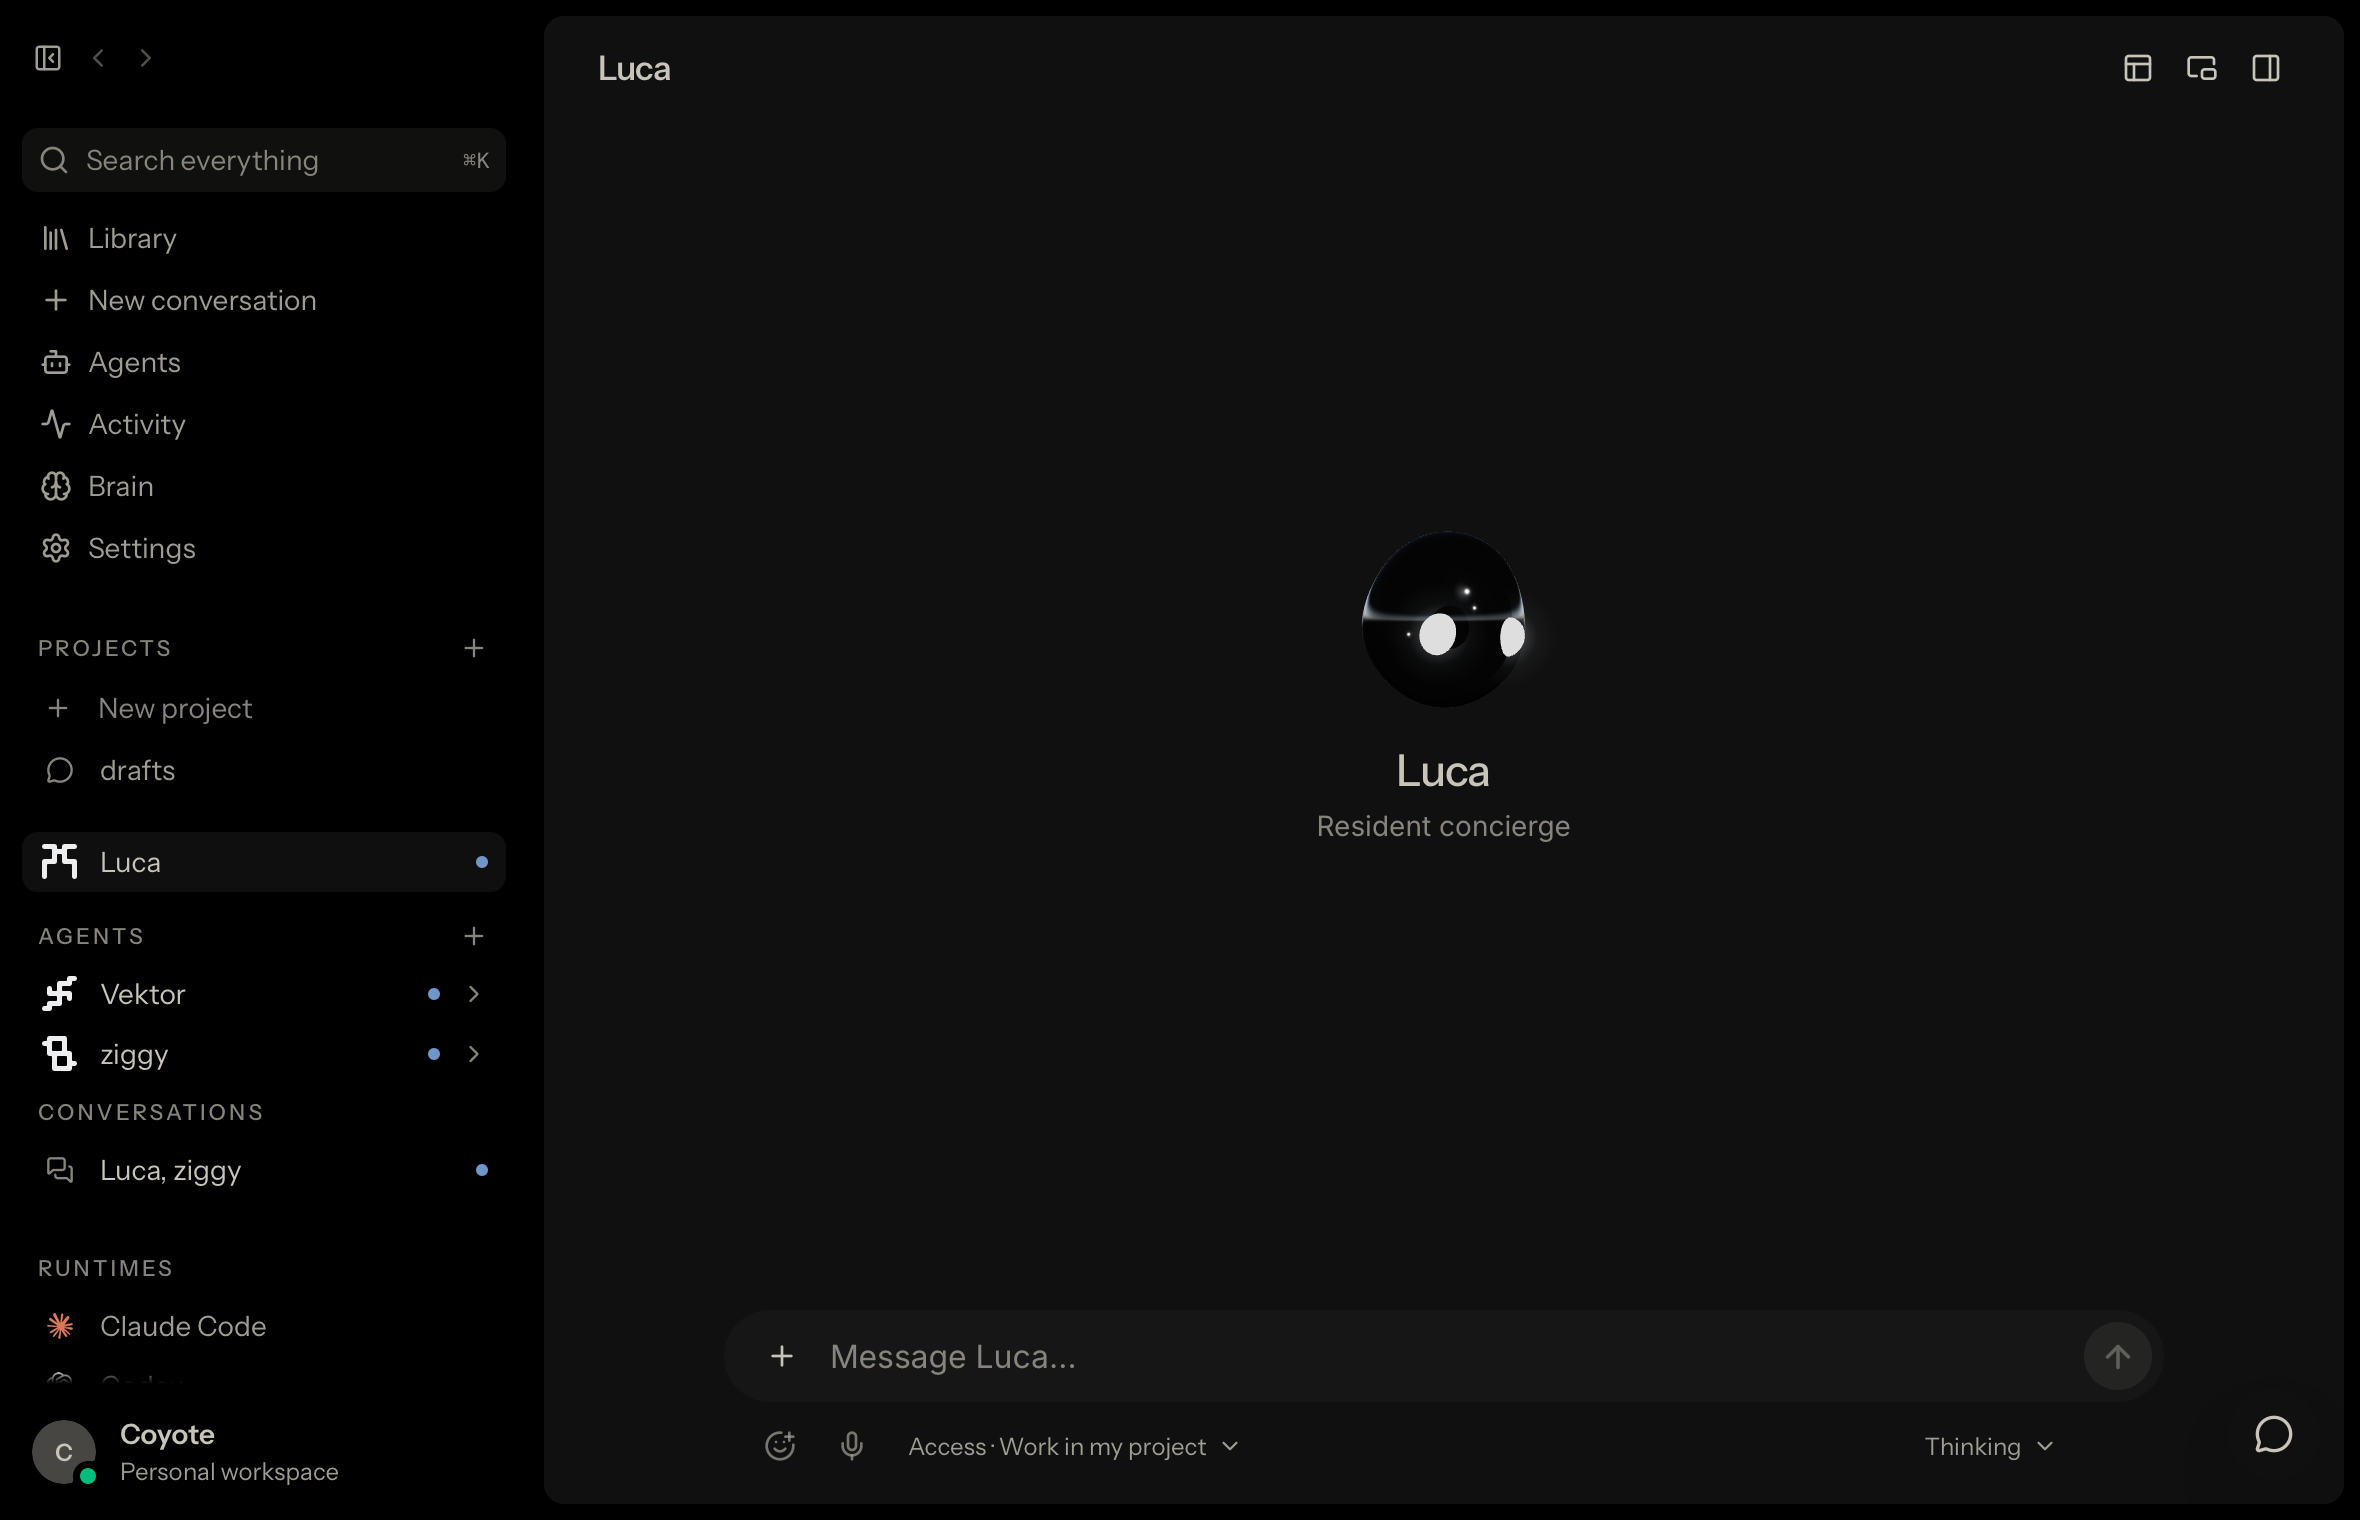
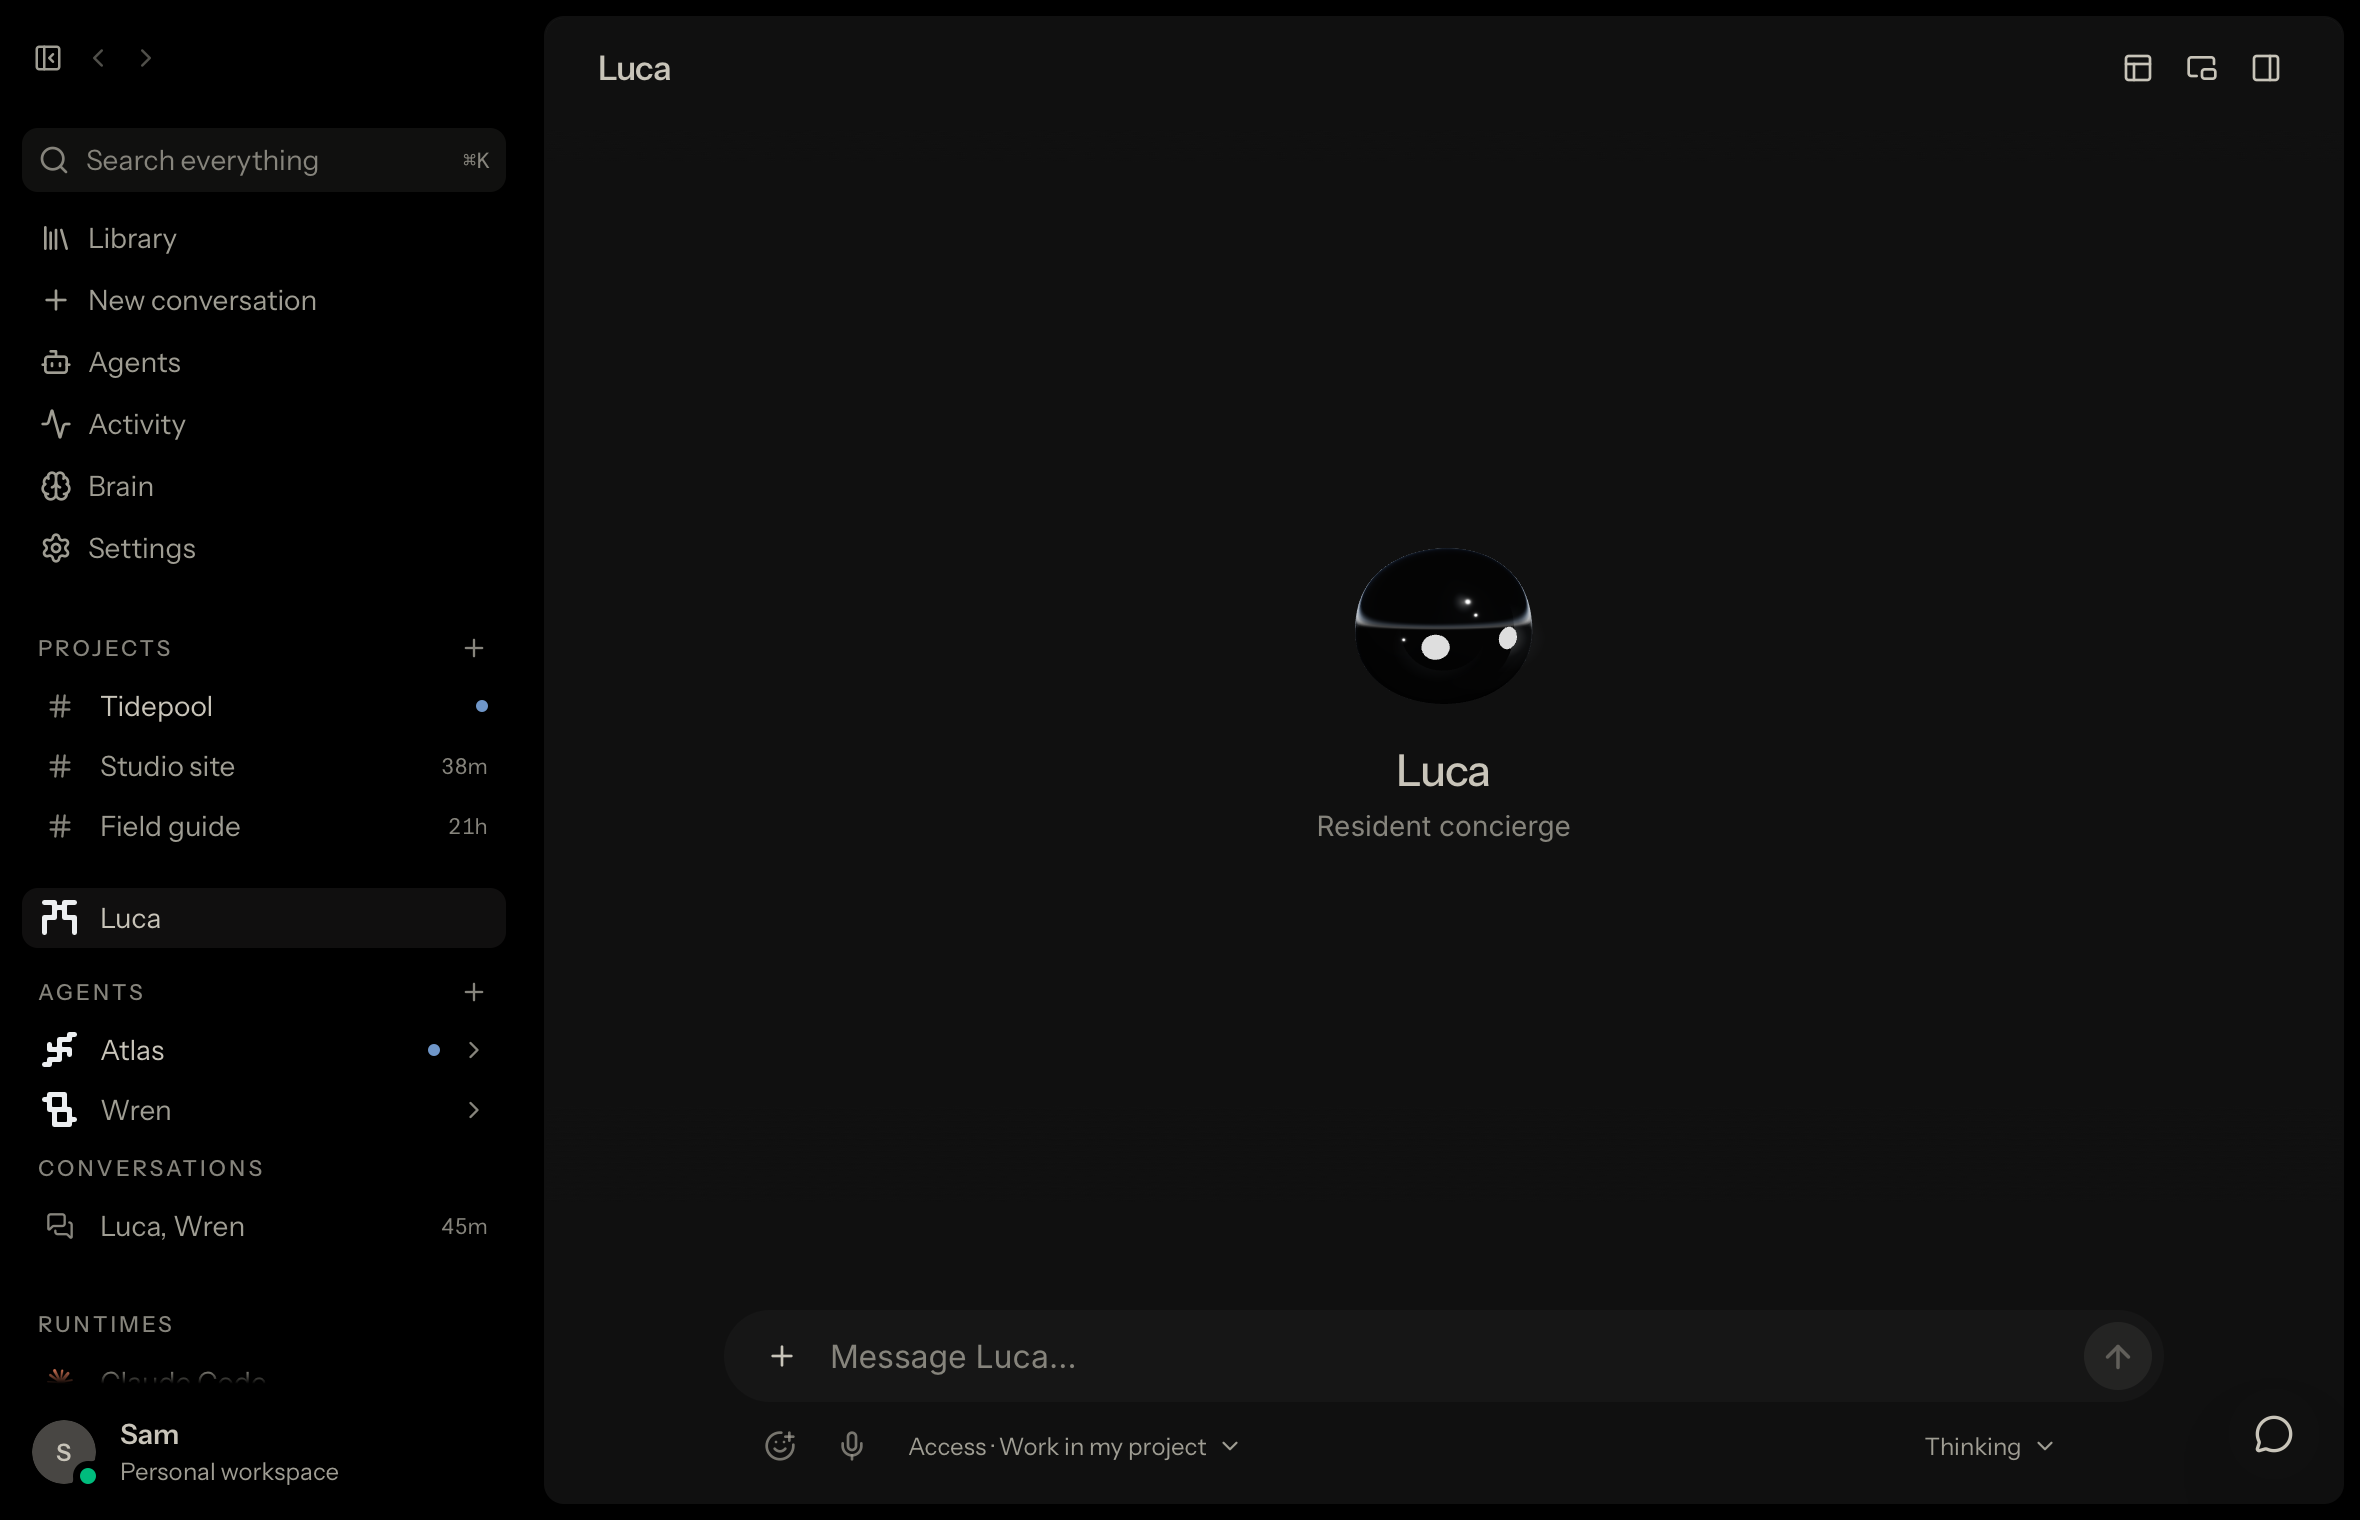
shell lab: ?scene=ad, a workspace fit for public screenshots
Same scene with a neutral owner (Sam), agents on Codex and Claude Code
(Atlas, Wren), three projects (Tidepool, Studio site, Field guide) and named
sessions filed under them. Everything is marked read except the newest
session. The beta.14 announcement frames are recaptured from it.

diff --git a/desktop/src/testing/labEntry.tsx b/desktop/src/testing/labEntry.tsx
@@ -45,6 +45,9 @@ import {
   CONTROL_LAB_KEY,
 } from "@/testing/companionControlLab";
 import {
+  LAB_AD_PROJECTS,
+  LAB_AD_SCENE,
+  LAB_AD_SESSIONS,
   LAB_DM_ID,
   LAB_DM_TRANSCRIPT,
   LAB_DM_WITH,
@@ -57,6 +60,7 @@ import {
   type LabRoomKey,
   type LabTurn,
 } from "@/testing/labScene";
+import { roomProjectStorageKey } from "@/features/channels/lib/roomProjects";
 
 import "@fontsource-variable/inter/wght.css";
 import "@fontsource-variable/instrument-sans";
@@ -227,6 +231,83 @@ async function clearStockChannels() {
   }
 }
 
+/** The ad scene renames two residents; their names inside the transcripts
+ *  follow, so an opened room never contradicts its own rail. */
+function sceneText(text: string) {
+  return LAB_AD_SCENE
+    ? text.replace(/\bziggy\b/g, "Wren").replace(/\bVektor\b/g, "Atlas")
+    : text;
+}
+
+/** Named sessions with Atlas and Wren, filed under the ad scene's projects. */
+async function buildAdSessions() {
+  const nowSeconds = Math.floor(Date.now() / 1000);
+  for (const session of LAB_AD_SESSIONS) {
+    const resident = LAB_RESIDENTS[session.resident].pubkey;
+    await withPinnedUuid(session.id, () =>
+      invokeMock("create_channel", {
+        channelType: "stream",
+        description: "",
+        name: session.name,
+        visibility: "open",
+      }),
+    );
+    await invokeMock("add_channel_members", {
+      channelId: session.id,
+      pubkeys: [resident],
+      role: "bot",
+    });
+    window.__BUZZ_E2E_EMIT_MOCK_MESSAGE__?.({
+      channelId: session.id,
+      content: session.text,
+      createdAt: nowSeconds - session.minutesAgo * 60,
+      pubkey: resident,
+    });
+  }
+  window.localStorage.setItem(
+    roomProjectStorageKey(LAB_OWNER.pubkey, RELAY_URL),
+    JSON.stringify({
+      version: 1,
+      projects: LAB_AD_PROJECTS.map((project) => ({
+        ...project,
+        workingContextStatus: "attached",
+      })),
+      assignments: Object.fromEntries(
+        LAB_AD_SESSIONS.map((session) => [session.id, session.project]),
+      ),
+    }),
+  );
+  window.dispatchEvent(new Event("luca:room-projects-changed"));
+}
+
+/**
+ * A real workspace is mostly read. Everything the ad scene shows is marked
+ * read except the newest session, which keeps its one dot of news. Sent
+ * twice because the read-state manager may still be subscribing the first
+ * time.
+ */
+function markAdSceneRead() {
+  const newest = [...LAB_AD_SESSIONS].sort(
+    (a, b) => a.minutesAgo - b.minutesAgo,
+  )[0];
+  const send = () => {
+    const readAt = Math.floor(Date.now() / 1000) + 1;
+    const ids = [
+      LAB_DM_ID,
+      ...Object.values(LAB_ROOMS).map((room) => room.id),
+      ...LAB_AD_SESSIONS.map((session) => session.id),
+    ].filter((id) => id !== newest?.id);
+    window.__BUZZ_E2E_EMIT_MOCK_READ_STATE__?.({
+      clientId: "shell-lab-ad-scene",
+      contexts: Object.fromEntries(ids.map((id) => [id, readAt])),
+      createdAt: readAt,
+      slotId: "shell-lab-ad-scene",
+    });
+  };
+  send();
+  window.setTimeout(send, 1500);
+}
+
 function sayAll(channelId: string, turns: LabTurn[]) {
   const nowSeconds = Math.floor(Date.now() / 1000);
   for (const turn of [...turns].sort((a, b) => b.minutesAgo - a.minutesAgo)) {
@@ -250,7 +331,7 @@ function sayAll(channelId: string, turns: LabTurn[]) {
     }
     window.__BUZZ_E2E_EMIT_MOCK_MESSAGE__?.({
       channelId,
-      content: turn.text,
+      content: sceneText(turn.text),
       createdAt: nowSeconds - turn.minutesAgo * 60,
       extraTags: turn.exchangeTurn
         ? [["exchange", exchange.exchangeId, String(turn.exchangeTurn)]]
@@ -264,6 +345,9 @@ async function buildScene() {
   await clearStockChannels();
 
   for (const key of ROOM_ORDER) {
+    // The empty composer stage and the reading-notes room are design
+    // fixtures; the ad scene gives Atlas named sessions instead.
+    if (LAB_AD_SCENE && (key === "drafts" || key === "fieldNotes")) continue;
     const room = LAB_ROOMS[key];
     // Rooms with residents are GROUP CONVERSATIONS (channelType "dm"), the
     // way the real product creates them — this is what selects the quiet
@@ -288,10 +372,14 @@ async function buildScene() {
     sayAll(room.id, LAB_TRANSCRIPTS[key]);
   }
 
+  if (LAB_AD_SCENE) await buildAdSessions();
+
   await withPinnedUuid(LAB_DM_ID, () =>
     invokeMock("open_dm", { pubkeys: [LAB_DM_WITH.pubkey] }),
   );
   if (DM_SCENE !== "first") sayAll(LAB_DM_ID, LAB_DM_TRANSCRIPT);
+
+  if (LAB_AD_SCENE) markAdSceneRead();
 
   const openRoomId = DM_SCENE ? LAB_DM_ID : LAB_ROOMS[LAB_OPEN_ROOM].id;
   window.localStorage.setItem("luca:last-conversation.v1", openRoomId);

diff --git a/desktop/src/testing/labScene.ts b/desktop/src/testing/labScene.ts
@@ -15,8 +15,17 @@
  */
 
 /** The owner's key is the mock bridge's own identity — do not change it. */
+/**
+ * `?scene=ad` keeps the same scene but names everything for a public
+ * screenshot: a neutral owner, agents on the two harnesses the app supports,
+ * and sessions and projects a stranger would recognise as real work.
+ */
+export const LAB_AD_SCENE =
+  typeof window !== "undefined" &&
+  new URLSearchParams(window.location.search).get("scene") === "ad";
+
 export const LAB_OWNER = {
-  name: "Coyote",
+  name: LAB_AD_SCENE ? "Sam" : "Coyote",
   pubkey: "deadbeef".repeat(8),
 } as const;
 
@@ -36,13 +45,13 @@ export const LAB_RESIDENTS = {
[1 lines of base64/hex data omitted]
   },
   vektor: {
-    harness: "goose",
-    name: "Vektor",
+    harness: LAB_AD_SCENE ? "codex" : "goose",
+    name: LAB_AD_SCENE ? "Atlas" : "Vektor",
[1 lines of base64/hex data omitted]
   },
   ziggy: {
-    harness: "codex",
-    name: "ziggy",
+    harness: LAB_AD_SCENE ? "claude" : "codex",
+    name: LAB_AD_SCENE ? "Wren" : "ziggy",
[1 lines of base64/hex data omitted]
   },
 } as const;
@@ -289,3 +298,58 @@ export const LAB_EXCHANGES: Record<LabExchangeKey, LabExchange> = {
     state: "closed",
   },
 };
+
+/**
+ * What `?scene=ad` adds: three projects, and named sessions with Atlas and
+ * Wren under them, so the rail shows the shape of real work. Each session
+ * carries one recent line so its row has a time and, sometimes, unread news.
+ */
+export const LAB_AD_PROJECTS = [
+  { id: "tidepool", label: "Tidepool" },
+  { id: "studio-site", label: "Studio site" },
+  { id: "field-guide", label: "Field guide" },
+] as const;
+
+export type LabAdSession = {
+  id: string;
+  name: string;
+  resident: keyof typeof LAB_RESIDENTS;
+  project: (typeof LAB_AD_PROJECTS)[number]["id"];
+  minutesAgo: number;
+  text: string;
+};
+
+export const LAB_AD_SESSIONS: LabAdSession[] = [
+  {
+    id: "5a1f3c2e-8d47-4b9a-a6e0-3c9d1f7b2e81",
+    name: "Checkout refactor",
+    resident: "vektor",
+    project: "tidepool",
+    minutesAgo: 6,
+    text: "The cart now keeps its state across the payment sheet. Two tests left to update.",
+  },
+  {
+    id: "8c2d6e4f-1a39-4f7b-9e05-7b4a2c8d1f63",
+    name: "Flaky test hunt",
+    resident: "vektor",
+    project: "tidepool",
+    minutesAgo: 140,
+    text: "Found it: the sync test raced the clock. Pinned the time and it has passed 200 runs.",
+  },
+  {
+    id: "2e9b7d1c-6f84-4a2e-b3c7-9d1e5a7f4b20",
+    name: "Landing page copy",
+    resident: "ziggy",
+    project: "studio-site",
+    minutesAgo: 38,
+    text: "Three headline options are in the doc. I would lead with the second.",
+  },
+  {
+    id: "9f4e2a7b-3c15-4d8e-a1f6-2b7c9e4d6a35",
+    name: "Chapter nine notes",
+    resident: "ziggy",
+    project: "field-guide",
+    minutesAgo: 1260,
+    text: "Margin notes are done. The tide-table section still reads long.",
+  },
+];
